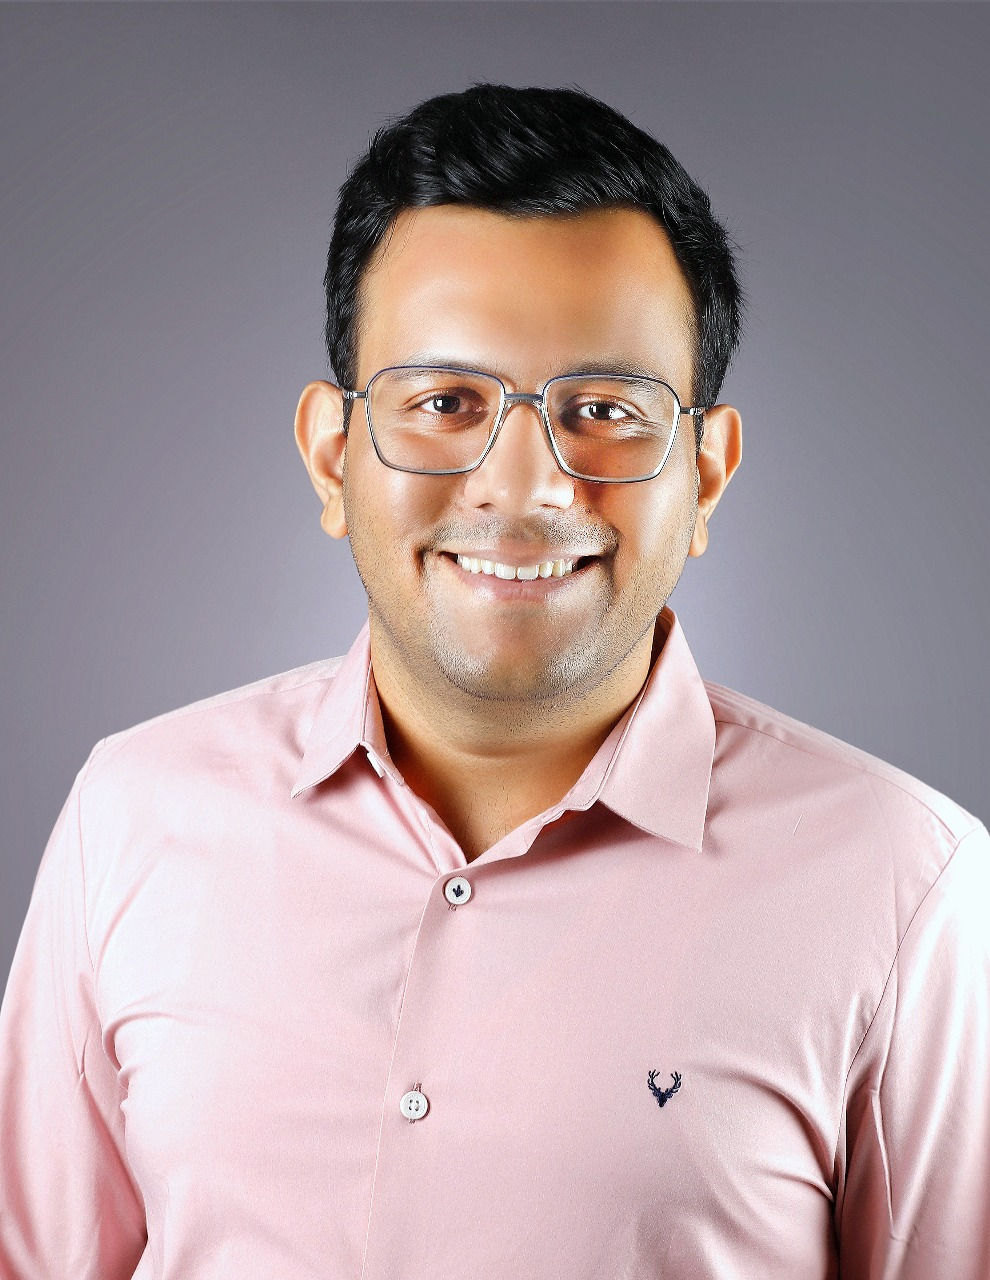
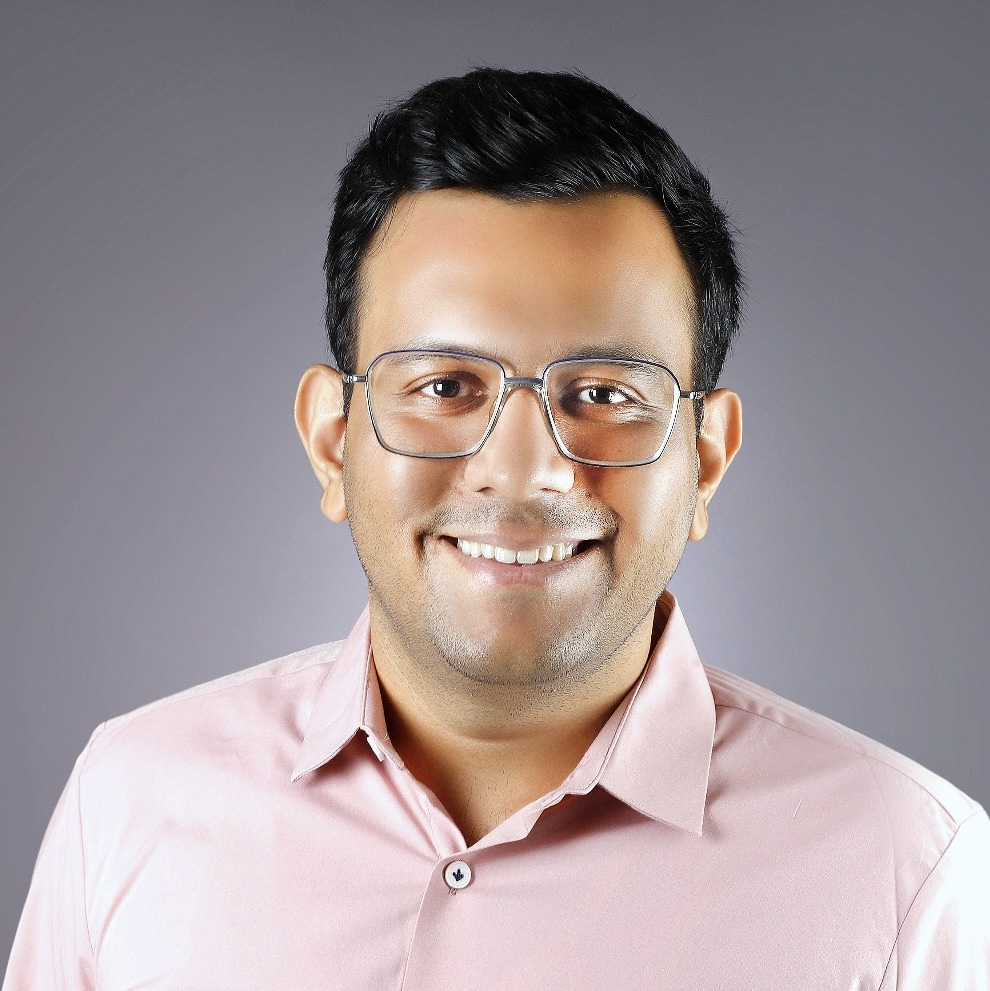
updated images to be 1:1 ratio, fixed scroll to for schedule discovey call button, fixed footer links to open in a new tab

diff --git a/components/AboutSection.tsx b/components/AboutSection.tsx
@@ -137,29 +137,36 @@ const AboutSection = () => {
               { initials: 'SA', name: 'Seema Aslot', image: SeemaImage, delay: 0.7 },
               { initials: 'IA', name: 'Ishan Aslot', image: IshanImage, delay: 0.8 }
             ].map((member) => (
-              <motion.div
-                key={member.initials}
-                initial={{ opacity: 0, y: 30 }}
-                whileInView={{ opacity: 1, y: 0 }}
-                transition={{ duration: 0.6, delay: member.delay }}
-                viewport={{ once: true }}
-                className="text-center space-y-5 group"
-              >
-                <div className="relative w-36 h-36 md:w-40 md:h-40 mx-auto">
-                  {/* Glow Effect */}
-                  <motion.div
-                    animate={{ scale: [1, 1.1, 1] }}
-                    transition={{ duration: 3, repeat: Infinity, ease: "easeInOut" }}
-                    className="absolute inset-0 rounded-full bg-gradient-to-br from-accent/30 to-yellow-600/30 blur-2xl group-hover:blur-3xl transition-all duration-500"
-                  />
-                  <img src={member.image.src} alt={member.name + ' Avatar'} className="w-32 h-32 md:w-36 md:h-36 rounded-full object-cover" loading="lazy" width={200} height={200} />
-                </div>
-                <div>
-                  <h4 className="font-bold text-xl md:text-2xl text-white mb-2 group-hover:text-accent transition-colors duration-300">
-                    {member.name}
-                  </h4>
-                </div>
-              </motion.div>
+             <motion.div
+  key={member.initials}
+  initial={{ opacity: 0, y: 30 }}
+  whileInView={{ opacity: 1, y: 0 }}
+  transition={{ duration: 0.6, delay: member.delay }}
+  viewport={{ once: true }}
+  className="text-center space-y-5 group"
+>
+  <div className="relative w-36 h-36 md:w-40 md:h-40 mx-auto">
+    {/* Glow Effect */}
+    <motion.div
+      animate={{ scale: [1, 1.1, 1] }}
+      transition={{ duration: 3, repeat: Infinity, ease: "easeInOut" }}
+      className="absolute inset-0 rounded-full bg-gradient-to-br from-accent/30 to-yellow-600/30 blur-2xl group-hover:blur-3xl transition-all duration-500"
+    />
+    <img 
+      src={member.image.src} 
+      alt={member.name + ' Avatar'} 
+      className="relative w-full h-full rounded-full object-contain" 
+      loading="lazy" 
+      width={200} 
+      height={200} 
+    />
+  </div>
+  <div>
+    <h4 className="font-bold text-xl md:text-2xl text-white mb-2 group-hover:text-accent transition-colors duration-300">
+      {member.name}
+    </h4>
+  </div>
+</motion.div>
             ))}
           </div>
 

diff --git a/components/ContactSection.tsx b/components/ContactSection.tsx
@@ -132,9 +132,9 @@ const ContactSection = () => {
                 <div>
                   <h4 className="font-semibold text-primary mb-2">Office Address</h4>
                   <p className="text-muted-foreground">
-                    9, Gr. Floor, West side,, Vishwakarma Society<br />
+                    9, Gr. Floor, West side, Vishwakarma Society<br />
                     b/h Vishwakarma temple, Nr. ITC Building<br />
-                    Majura Gate, Surat - 395002 , India
+                    Majura Gate, Surat, Gujarat, India - 395002.
                   </p>
                   <p className="text-sm text-accent mt-2">Visitor parking available</p>
                 </div>
@@ -170,9 +170,17 @@ const ContactSection = () => {
             </div>
 
             {/* Map Placeholder */}
-            <div className="glass-card rounded-2xl p-4 h-64 flex items-center justify-center bg-muted/20">
-              <iframe src="https://www.google.com/maps/embed?pb=!1m17!1m12!1m3!1d3720.2642259473105!2d72.81732347526084!3d21.18166008050618!2m3!1f0!2f0!3f0!3m2!1i1024!2i768!4f13.1!3m2!1m1!2zMjHCsDEwJzU0LjAiTiA3MsKwNDknMTEuNiJF!5e0!3m2!1sen!2sin!4v1762702185037!5m2!1sen!2sin" width="600" height="250" allowFullScreen loading="lazy" referrerPolicy="no-referrer-when-downgrade"></iframe>
-            </div>
+            <div className="glass-card rounded-2xl p-0 h-64 flex items-center justify-center bg-muted/20 border-2 border-accent/30">
+  <iframe 
+    src="https://www.google.com/maps/embed?pb=!1m17!1m12!1m3!1d3720.2642259473105!2d72.81732347526084!3d21.18166008050618!2m3!1f0!2f0!3f0!3m2!1i1024!2i768!4f13.1!3m2!1m1!2zMjHCsDEwJzU0LjAiTiA3MsKwNDknMTEuNiJF!5e0!3m2!1sen!2sin!4v1762702185037!5m2!1sen!2sin" 
+    width="600" 
+    height="250" 
+    allowFullScreen 
+    loading="lazy" 
+    referrerPolicy="no-referrer-when-downgrade"
+    className="rounded-2xl"
+  />
+</div>
           </div>
         </div>
       </div>

diff --git a/components/Footer.tsx b/components/Footer.tsx
@@ -30,6 +30,8 @@ const Footer = () => {
             <div className="flex space-x-4">
               <a
                 href="https://www.linkedin.com/in/ishan-aslot/"
+                  target="_blank"
+  rel="noopener noreferrer"
                 className="text-primary hover:text-accent transition-colors"
                 aria-label="LinkedIn"
               >
@@ -37,6 +39,8 @@ const Footer = () => {
               </a>
               <a
                 href="https://www.instagram.com/aslotwealth?igsh=NGxiMHA0ZXkxYzI5"
+                  target="_blank"
+  rel="noopener noreferrer"
                 className="text-primary hover:text-accent transition-colors"
                 aria-label="Twitter"
               >

diff --git a/components/HeroSection.tsx b/components/HeroSection.tsx
@@ -2,7 +2,8 @@ import { Button } from '@/components/ui/button';
 import { gsap } from 'gsap';
 import { ArrowRight } from 'lucide-react';
 import { useEffect, useRef } from 'react';
-
+import { ScrollToPlugin } from 'gsap/ScrollToPlugin';
+gsap.registerPlugin(ScrollToPlugin);
 // Define the Particle type
 interface Particle {
   x: number;
@@ -151,9 +152,9 @@ const HeroSection = () => {
 
   const scrollToContact = () => {
     gsap.to(window, {
-      duration: 1.5,
+      duration: 0.5,
       scrollTo: '#contact',
-      ease: 'power2.inOut'
+      ease: 'power3.inOut'
     });
   };
 
